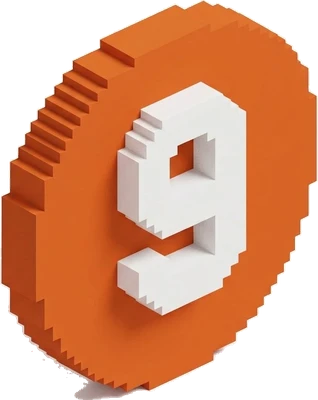
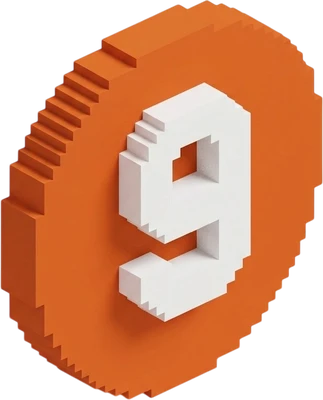
Podcast: the voxel coin 9 everywhere, Track 9 share image
The coin (cleaner cutout) replaces the flat 9 in the scene frame, the
episodes header and the favicon, and the share image now says Track 9
with the coin. On phones Listen Now sits on the right of the button row.

diff --git a/page/pages/podcast/episodes.vue b/page/pages/podcast/episodes.vue
@@ -6,7 +6,7 @@
       <div class="pod-shell pod-episodes-bar-inner">
         <NuxtLink class="pod-episodes-back" :to="content.links.home">
           <i class="fas fa-arrow-left" aria-hidden="true"></i>
-          <span class="pod-episodes-bullet" aria-hidden="true">9</span>
+          <img class="pod-episodes-bullet" :src="nineCoin" alt="" draggable="false" />
           <span>{{ showTitle }}</span>
         </NuxtLink>
 
@@ -125,6 +125,7 @@
 // go in assets/episodes/ (or reuse one from assets/ninth-hero/) and are named
 // by filename in the JSON.
 import { computed, onBeforeUnmount, onMounted, reactive, ref } from "vue";
+import nineCoin from "~/assets/podcast-nine-coin.webp";
 
 // The Mandarin page (/podcast/zh/episodes) lays podcast-episodes.zh.json over
 // the English labels and stations (see usePodcastContent).
@@ -351,15 +352,9 @@ export default {
 }
 
 .pod-episodes-bullet {
-  display: inline-flex;
-  align-items: center;
-  justify-content: center;
-  width: 1.8rem;
-  height: 1.8rem;
-  border-radius: 50%;
-  background: #ff6319;
-  color: #fff;
-  font-weight: 900;
+  height: 2rem;
+  width: auto;
+  user-select: none;
 }
 
 .pod-episodes-search {

diff --git a/page/components/podcast/Bezel.vue b/page/components/podcast/Bezel.vue
@@ -7,7 +7,7 @@
   <div ref="stage" class="pod-bezel-stage">
     <div ref="frame" class="pod-bezel">
       <div class="pod-bezel-header">
-        <div class="pod-bezel-logo">9</div>
+        <img class="pod-bezel-logo" :src="nineCoin" alt="" draggable="false" />
         <div class="pod-bezel-wordmark">
           <div class="pod-bezel-name">{{ name }}</div>
           <div class="pod-bezel-tag">{{ tag }}</div>
@@ -22,6 +22,7 @@
 
 <script setup>
 import { onBeforeUnmount, onMounted, ref } from "vue";
+import nineCoin from "~/assets/podcast-nine-coin.webp";
 
 defineProps({
   name: { type: String, required: true },
@@ -104,18 +105,10 @@ export default {
 }
 
 .pod-bezel-logo {
-  width: 56px;
-  height: 56px;
-  border-radius: 50%;
-  background: #ff6319;
-  display: flex;
-  align-items: center;
-  justify-content: center;
+  height: 62px;
+  width: auto;
   flex-shrink: 0;
-  font-size: 39px;
-  font-weight: 900;
-  color: #fff;
-  line-height: 1;
+  user-select: none;
 }
 
 .pod-bezel-wordmark {

diff --git a/page/components/podcast/Hero.vue b/page/components/podcast/Hero.vue
@@ -278,8 +278,10 @@ export default {
 
   /* Buttons go to the right on phones and tablets: where a thumb reaches
      them, and clear of the language cat at the bottom-left. */
+  /* Listen last in the row, so it lands at the right edge under the thumb. */
   .pod-hero-actions {
     align-self: flex-end;
+    flex-direction: row-reverse;
     flex-wrap: nowrap;
     gap: 0.5rem;
     margin-top: 0;
